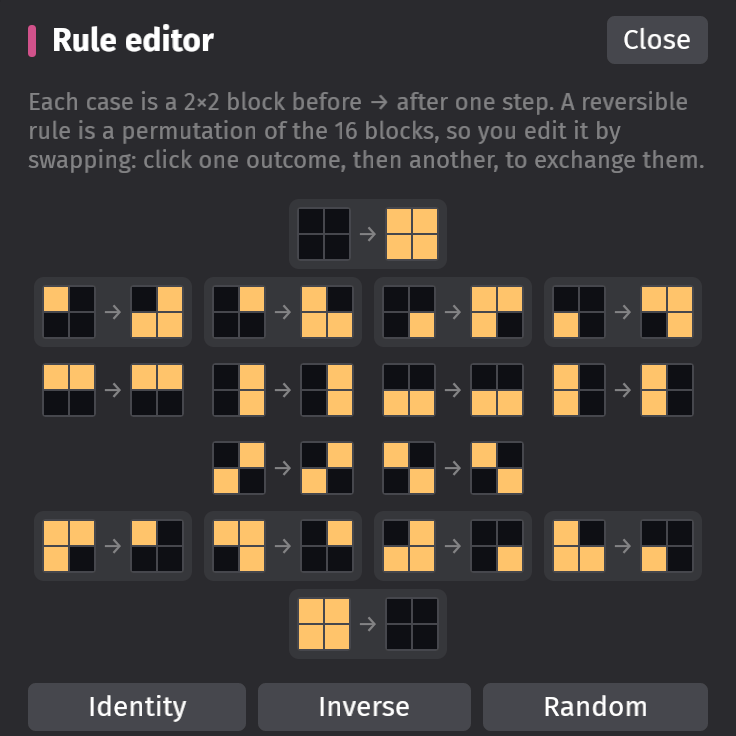
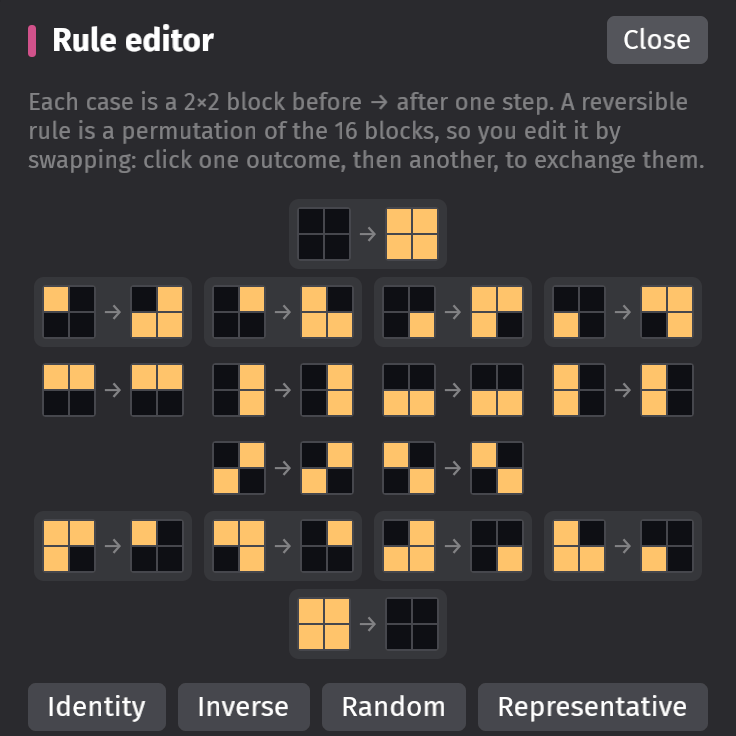
A Representative button in the rule editor
Next to Identity, Inverse and Random: it replaces the table with the
one that stands for every rule making the same world, the least among
its turns and mirrors and the generations of its vacuum's cycle it
could begin at, which is the table the search measures. The note says
when the rule already is its representative. Critters' is Critters
turned, so a preset can come out as Custom of the same world.

Changed region(s): [[0.0625, 0.9062, 0.9375, 1.0]]

diff --git a/src/editor.rs b/src/editor.rs
@@ -362,6 +362,27 @@ pub fn editor_panel() -> impl Scene {
                             editor.say("A random permutation.", universe.rule());
                         })
                     ),
+                    (
+                        // The rule that stands for all that make the same world: the least
+                        // table among its turns and mirrors, the generations of its vacuum's
+                        // cycle it could begin at, and the vacuum's flickering away.
+                        #RuleRepresentative
+                        @FeathersButton {
+                            @caption: bsn! { Text("Representative") ThemedText }
+                        }
+                        Node { flex_grow: 1.0 }
+                        on(|_: On<Activate>,
+                            mut universe: ResMut<Universe>,
+                            mut editor: ResMut<RuleEditor>| {
+                            let representative = universe.rule().representative();
+                            if representative == *universe.rule() {
+                                editor.say("Already the one that stands for all that make this world: turned, mirrored, or begun at another generation of the vacuum's cycle.", universe.rule());
+                            } else {
+                                universe.set_rule(representative);
+                                editor.say("The same world as before, under the table that stands for it: the least among its turns and mirrors, and the generations of the vacuum's cycle it could begin at.", universe.rule());
+                            }
+                        })
+                    ),
                 ]
             ),
             findings(),

diff --git a/DEVELOPMENT.md b/DEVELOPMENT.md
@@ -24,7 +24,7 @@ for script in rig/*.cas; do cargo run --release -- --script-file $script || brea
 | `wait N` | idle for N frames |
 | `shot NAME` | save `shots/NAME.png` (see `--shots`) and wait until it is written |
 | `film NAME FRAMES [N]` | FRAMES screenshots `NAME-000.png`, `NAME-001.png`, …, each followed by a step of N generations (1 unless given; negative goes backwards) |
-| `click NAME [DX DY]` | pointer move / press / release on the UI node named NAME, optionally offset from its centre in logical pixels. Nodes: `PlayPause`, `StepBack`, `StepForward`, `Reverse`, `HideVacuum`, `ShowGrid`, `ShowBlocks`, `FitView`, `Soup`, `Blob`, `Cloud`, `Clear`, the sliders `Speed`, `Stride`, `Density`, `Grid`; the rule menu `RuleMenu` and its items `RuleItem:<preset id>`, `RuleItemCustom`; `EditRule`; in the editor `Out0` … `Out15` (the outcomes), `RuleIdentity`, `RuleInverse`, `RuleRandom`, `RuleString`, `RuleEspca` (Morita's number under it), `RuleCopy`, `RulePaste`, `EditorClose`; the size menu `GridSize` and its items `GridSize:<side>`; `OpenBorder`, `Catching`, `Spaceships`; in the spaceship list `CatcherCatching`, `Kind0` … (the kinds, in the order they were first caught), `AnalyseKind0` … (their ◎ buttons), `CatcherForget`, `CatcherNote` (the line next to it), `CatcherClose`; `Analyse` and `SelectHint` (the line next to it); in the analysis panel `SubjectRule` (the rule's name next to the title), `AnalysisView`, `SmallCaption` (the line under it), `AnalysisPause`, `AnalysisRestart`, `SmallStatus` (the small world's generation, and what left it), `StudyWhat`, `StudyPeriod`, `StudySpeed`, `StudyCells`, `StudyChanges`, `StudySize`, `StudySymmetry`, `StudyPieces`, `StudyText`, `AnalysisPlace`, `AnalysisCopy`, `AnalysisNote`, `AnalysisClose` |
+| `click NAME [DX DY]` | pointer move / press / release on the UI node named NAME, optionally offset from its centre in logical pixels. Nodes: `PlayPause`, `StepBack`, `StepForward`, `Reverse`, `HideVacuum`, `ShowGrid`, `ShowBlocks`, `FitView`, `Soup`, `Blob`, `Cloud`, `Clear`, the sliders `Speed`, `Stride`, `Density`, `Grid`; the rule menu `RuleMenu` and its items `RuleItem:<preset id>`, `RuleItemCustom`; `EditRule`; in the editor `Out0` … `Out15` (the outcomes), `RuleIdentity`, `RuleInverse`, `RuleRandom`, `RuleRepresentative`, `RuleString`, `RuleEspca` (Morita's number under it), `RuleCopy`, `RulePaste`, `EditorClose`; the size menu `GridSize` and its items `GridSize:<side>`; `OpenBorder`, `Catching`, `Spaceships`; in the spaceship list `CatcherCatching`, `Kind0` … (the kinds, in the order they were first caught), `AnalyseKind0` … (their ◎ buttons), `CatcherForget`, `CatcherNote` (the line next to it), `CatcherClose`; `Analyse` and `SelectHint` (the line next to it); in the analysis panel `SubjectRule` (the rule's name next to the title), `AnalysisView`, `SmallCaption` (the line under it), `AnalysisPause`, `AnalysisRestart`, `SmallStatus` (the small world's generation, and what left it), `StudyWhat`, `StudyPeriod`, `StudySpeed`, `StudyCells`, `StudyChanges`, `StudySize`, `StudySymmetry`, `StudyPieces`, `StudyText`, `AnalysisPlace`, `AnalysisCopy`, `AnalysisNote`, `AnalysisClose` |
 | `move NAME [DX DY]` | just move the pointer there |
 | `drag NAME DX DY [left\|right\|middle]` | press at the node's centre, move by (DX, DY), release: drags sliders, paints, pans |
 | `hold NAME FRAMES` | keep the left button down on the node for FRAMES frames |

diff --git a/README.md b/README.md
@@ -300,6 +300,10 @@ once, also while the simulation runs. As soon as the table differs from all pres
 shows *Custom*; pick a preset and *Custom…* brings your last hand-made rule back.
 
 * **Identity**, **Inverse** (the rule that undoes the current one) and **Random** replace the table.
+  **Representative** replaces it with the table that stands for every rule making the same world:
+  the least among its turns and mirrors and the generations of its vacuum's cycle it could begin at,
+  which is the one the search measures. A preset is not always its own: Critters' is Critters
+  turned, so the menu then says *Custom* of the same world.
 * **Properties** is what analysis says about the table, each finding in words with a small
   diagram:
   * *Symmetry*: the turns and mirrors of the square under which the rule looks the same. The
